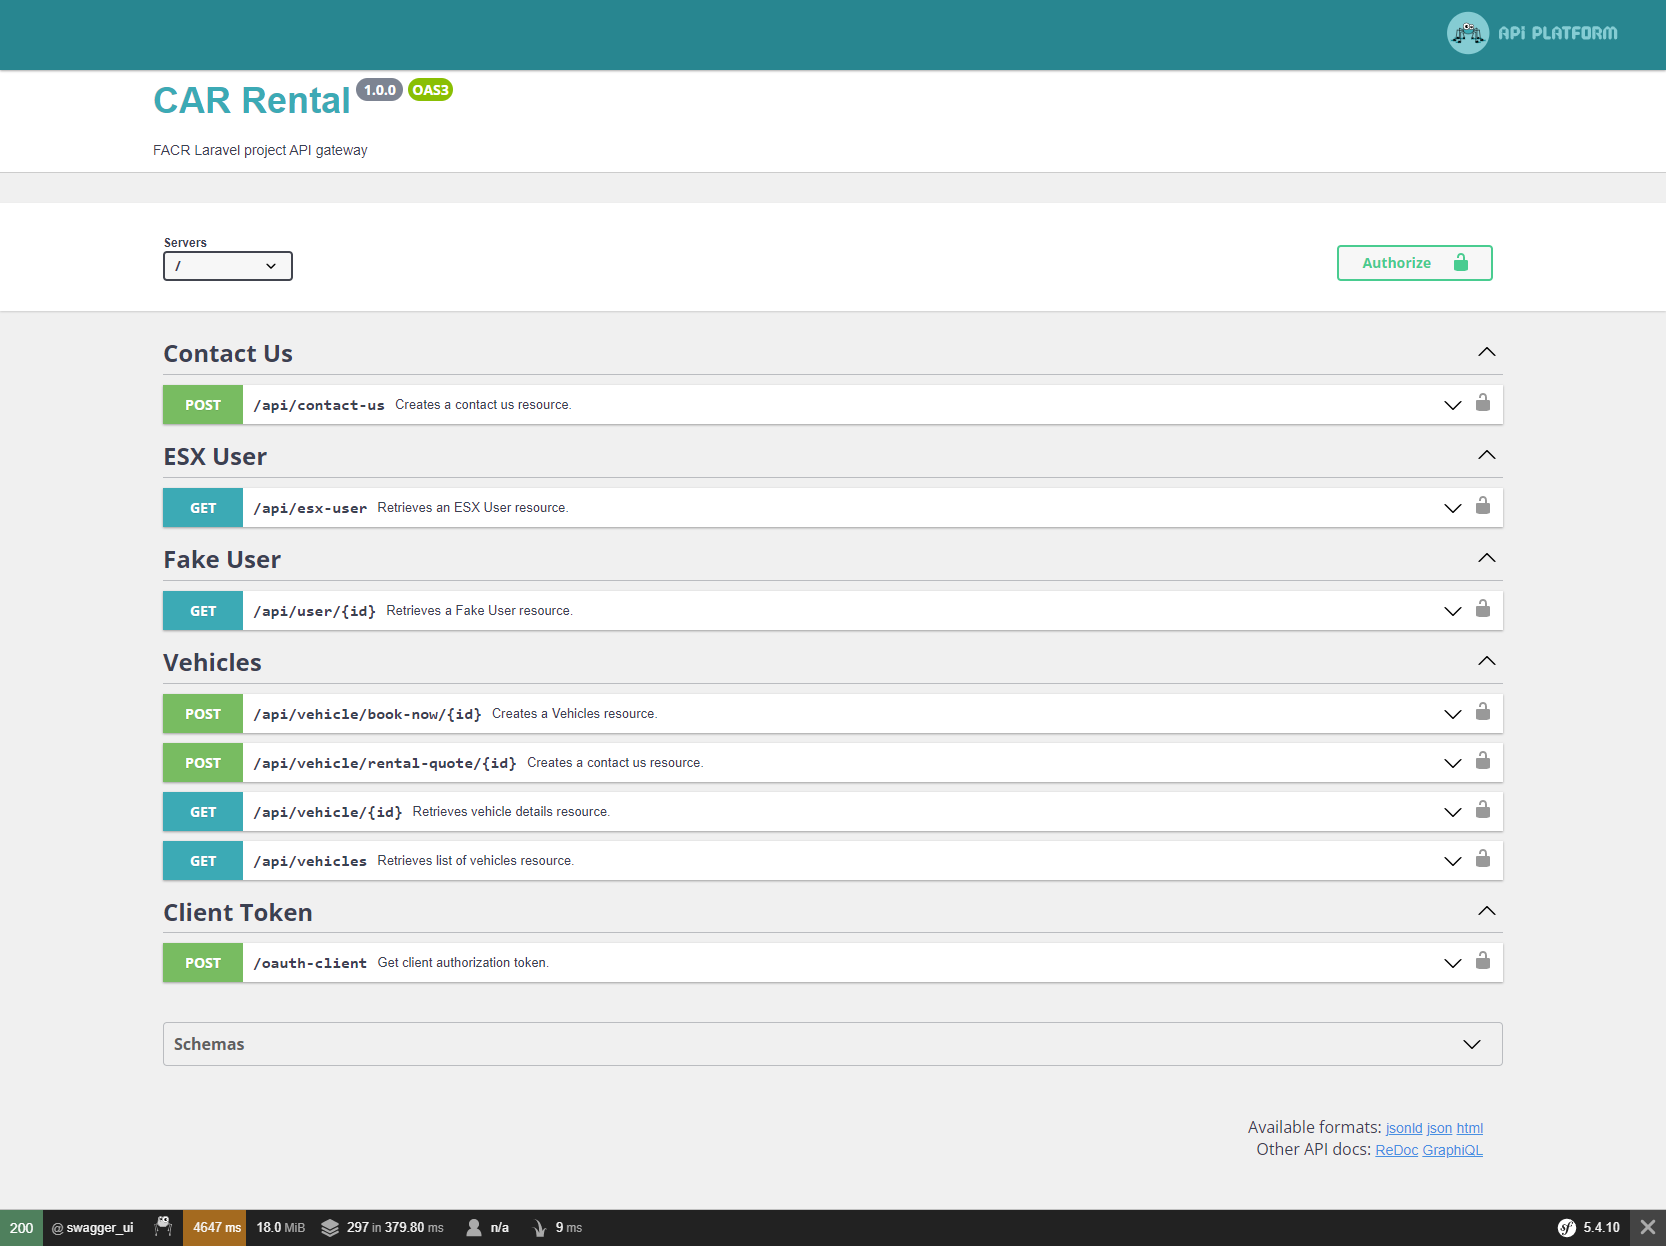
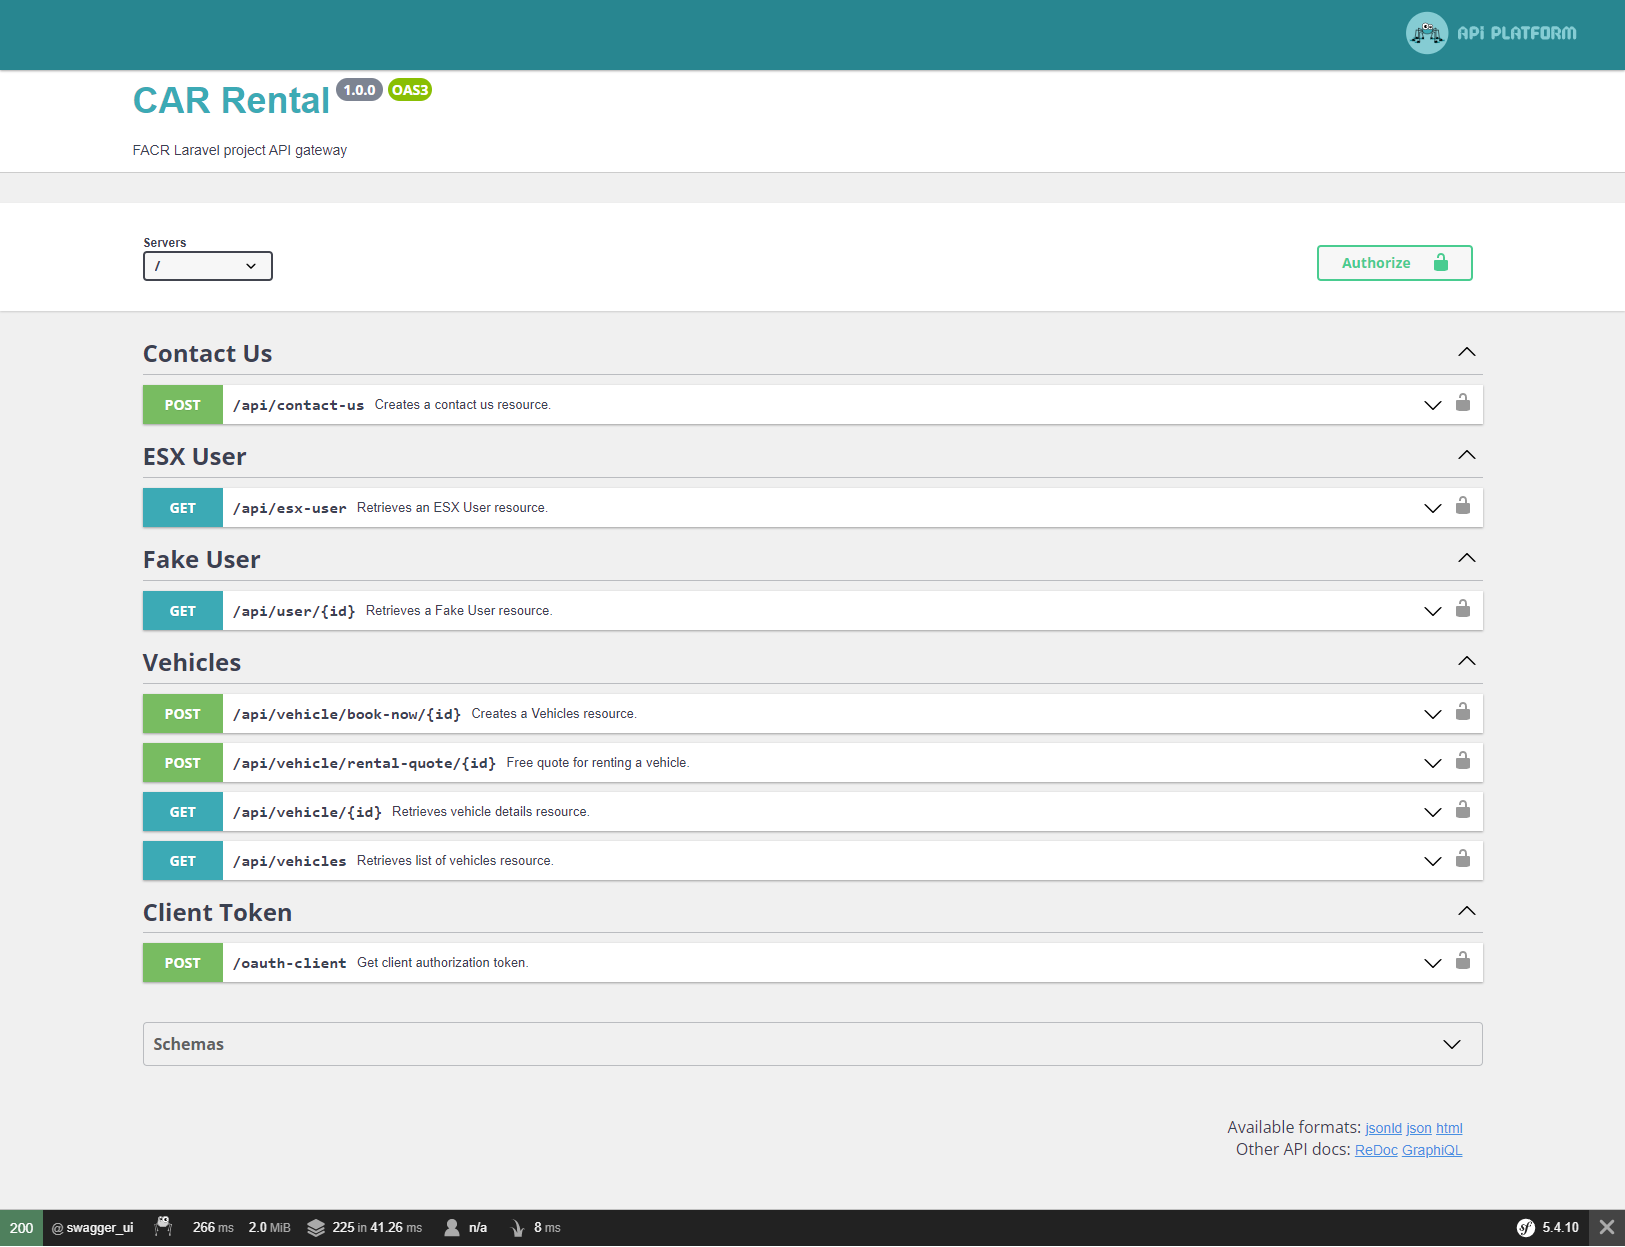
POST free rental quote

diff --git a/src/ApiResources/Vehicle.php b/src/ApiResources/Vehicle.php
@@ -31,18 +31,42 @@ use ApiPlatform\Core\Annotation\ApiResource;
  *          },
  *          "post_rental_quote"={
  *              "path"="vehicle/rental-quote/{id}",
+ *              "route_name"="api_free_quote_post",
  *              "method"="POST",
  *              "status"=200,
  *              "openapi_context"={
- *                  "summary"="Creates a contact us resource.",
- *                  "description"="It creates a contact us resource.",
+ *                  "summary"="Free quote for renting a vehicle.",
+ *                  "description"="Free quote for renting a vehicle for a period of time.",
+ *                  "parameters"={
+ *                      {
+ *                          "name"="id",
+ *                          "in"="path",
+ *                          "description"="Vehicle identifier",
+ *                          "example"="1",
+ *                          "required"=true,
+ *                          "schema"={
+ *                              "type"="integer"
+ *                          }
+ *                      }
+ *                  },
  *                  "requestBody": {
  *                      "content": {
  *                          "application/json": {
  *                              "schema": {
  *                                  "type": "object",
  *                                  "properties": {
- *                                      "a": {"type": "string", "example": "John Doe"}
+ *                                      "pick_up_date": {"type": "string", "example": "2021-05-24", "format": "date"},
+ *                                      "pick_up_time": {"type": "string", "example": "05:00", "enum": {
+ *                                              "05:00", "06:00", "07:00", "08:00", "09:00", "10:00", "11:00", "12:00", "13:00", "14:00", "15:00", "16:00", "17:00", "18:00", "19:00",  "20:00", "21:00"
+ *                                          }
+ *                                      },
+ *                                      "pick_up_location": {"type": "string", "example": "Airport of mauritius"},
+ *                                      "drop_off_date": {"type": "string", "example": "2021-11-27", "format": "date"},
+ *                                      "drop_off_time": {"type": "string", "example": "14:00", "enum": {
+ *                                              "05:00", "06:00", "07:00", "08:00", "09:00", "10:00", "11:00", "12:00", "13:00", "14:00", "15:00", "16:00", "17:00", "18:00", "19:00",  "20:00", "21:00"
+ *                                          }
+ *                                      },
+ *                                      "drop_off_location": {"type": "string", "example": "Hotels, AirBnB, ..."}
  *                                  },
  *                              },
  *                          },
@@ -56,7 +80,12 @@ use ApiPlatform\Core\Annotation\ApiResource;
  *                                  "schema": {
  *                                      "type": "object",
  *                                      "properties": {
- *                                          "b": {"type": "string", "example": "John Doe"}
+ *                                          "days": {"type": "integer", "example": 10},
+ *                                          "condition": {"type": "string", "example": "Pay 25% of total upon booking"},
+ *                                          "price_per_day": {"type": "integer", "example": 28},
+ *                                          "total": {"type": "integer", "example": 280},
+ *                                          "pay": {"type": "integer", "example": 70},
+ *                                          "remaining": {"type": "integer", "example": 210}
  *                                      },
  *                                  },
  *                              },

diff --git a/src/Controller/Vehicle/FreeQuoteController.php b/src/Controller/Vehicle/FreeQuoteController.php
@@ -1,0 +1,78 @@
+<?php
+
+namespace App\Controller\Vehicle;
+
+use ApiPlatform\Core\Exception\InvalidArgumentException;
+use App\ApiResources\Vehicle;
+use App\Dto\FreeQuote;
+use App\Repository\VehiculesRepository;
+use DateTime;
+use Symfony\Bundle\FrameworkBundle\Controller\AbstractController;
+use Symfony\Component\HttpFoundation\JsonResponse;
+use Symfony\Component\HttpFoundation\Request;
+use Symfony\Component\HttpFoundation\Response;
+use Symfony\Component\Routing\Annotation\Route;
+use Symfony\Component\Serializer\SerializerInterface;
+
+class FreeQuoteController extends AbstractController
+{
+    private $vehiculesRepository;
+
+    public function __construct(VehiculesRepository $vehiculesRepository)
+    {
+        $this->vehiculesRepository = $vehiculesRepository;
+    }
+
+    /**
+     * @Route(
+     *      name="api_free_quote_post",
+     *      path="/api/vehicle/rental-quote/{id}",
+     *      methods={"POST"},
+     *      defaults={
+     *          "_api_resource_class"=Vehicle::class,
+     *          "_api_item_collection_name"="post_rental_quote",
+     *      }
+     * )
+     */
+    public function __invoke(Request $request, $id, SerializerInterface $serializer): JsonResponse
+    {
+        $freeQuoteObj = $serializer->deserialize($request->getContent(), FreeQuote::class, 'json');
+        $freeQuoteResponse = $this->getFreeQuote($freeQuoteObj, (int) $id);
+
+        if ($freeQuoteResponse) {
+            return $this->json([
+                'days' => $freeQuoteResponse['days'],
+                'condition' => $freeQuoteResponse['condition'],
+                'price_per_day' => $freeQuoteResponse['price_per_day'],
+                'total' => $freeQuoteResponse['total'],
+                'pay' => $freeQuoteResponse['pay'],
+                'remaining' => $freeQuoteResponse['remaining'],
+            ], Response::HTTP_OK);
+        }
+    }
+
+    private function getFreeQuote(FreeQuote $freeQuote, int $id): array
+    {
+        $vehicle = $this->vehiculesRepository->findById($id);
+        if (!$vehicle) {
+            throw new InvalidArgumentException('id is invalid !');
+        }
+
+        $pickUpDate = new DateTime($freeQuote->getPickUpDate());
+        $dropOffDate = new DateTime($freeQuote->getDropOffDate());
+        $dateDiffDays = $dropOffDate->diff($pickUpDate)->days;
+        $price = (int) $vehicle['price'];
+        $total = $price * $dateDiffDays;
+        $amountToPay = (1 / 4) * $total;
+        $remaining = $total - $amountToPay;
+
+        return [
+            'days' => $dateDiffDays,
+            'condition' => 'Pay 25% of total upon booking',
+            'price_per_day' => $price,
+            'total' => $total,
+            'pay' => $amountToPay,
+            'remaining' => $remaining,
+        ];
+    }
+}

diff --git a/src/Dto/FreeQuote.php b/src/Dto/FreeQuote.php
@@ -1,0 +1,82 @@
+<?php
+
+namespace App\Dto;
+
+class FreeQuote
+{
+    /**
+     * @var string|null
+     */
+    private $pickUpDate;
+
+    /**
+     * @var string|null
+     */
+    private $pickUpTime;
+
+    /**
+     * @var string|null
+     */
+    private $pickUpLocation;
+
+    /**
+     * @var string|null
+     */
+    private $dropOffDate;
+
+    /**
+     * @var string|null
+     */
+    private $dropOffTime;
+
+    /**
+     * @var string|null
+     */
+    private $dropOffLocation;
+
+    public function __construct(
+        ?string $pickUpDate,
+        ?string $pickUpTime,
+        ?string $pickUpLocation,
+        ?string $dropOffDate,
+        ?string $dropOffTime,
+        ?string $dropOffLocation
+    ) {
+        $this->pickUpDate = $pickUpDate;
+        $this->pickUpTime = $pickUpTime;
+        $this->pickUpLocation = $pickUpLocation;
+        $this->dropOffDate = $dropOffDate;
+        $this->dropOffTime = $dropOffTime;
+        $this->dropOffLocation = $dropOffLocation;
+    }
+
+    public function getPickUpDate(): ?string
+    {
+        return $this->pickUpDate;
+    }
+
+    public function getPickUpTime(): ?string
+    {
+        return $this->pickUpTime;
+    }
+
+    public function getPickUpLocation(): ?string
+    {
+        return $this->pickUpLocation;
+    }
+
+    public function getDropOffDate(): ?string
+    {
+        return $this->dropOffDate;
+    }
+
+    public function getDropOffTime(): ?string
+    {
+        return $this->dropOffTime;
+    }
+
+    public function getDropOffLocation(): ?string
+    {
+        return $this->dropOffLocation;
+    }
+}

diff --git a/README.md b/README.md
@@ -110,6 +110,7 @@ services:
 - https://api-platform.com/docs/core/jwt/ **JWT Authentication / Swagger manipulation**
 - https://swagger.io/docs/specification/describing-responses/ **Describing Responses**
 - https://swagger.io/docs/specification/describing-request-body/ **Describing Request Body**
+- https://swagger.io/docs/specification/2-0/describing-parameters/ **Describing Parameters**
 
 # Tests
 
